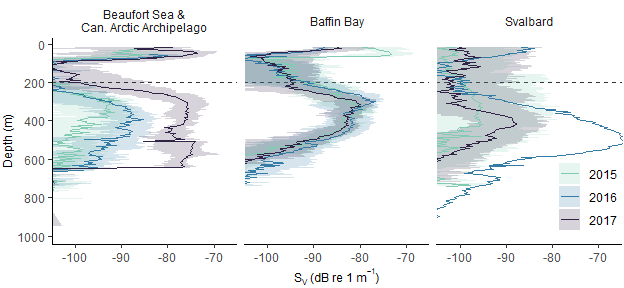
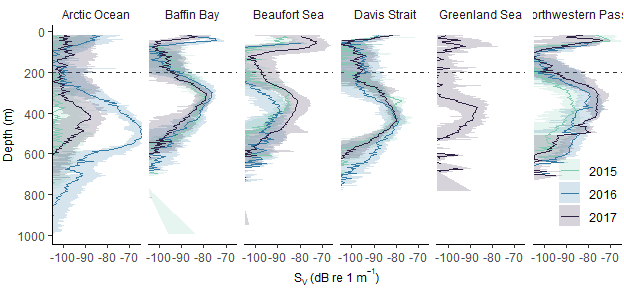
Implemented IHO regions

diff --git a/PanArctic_DSL_acoustics.md b/PanArctic_DSL_acoustics.md
@@ -1,7 +1,7 @@
 PanArctic DSL - Acoustic gridding
 ================
 [Pierre Priou](mailto:pierre.priou@mi.mun.ca)
-2022/04/25 at 18:58
+2022/04/26 at 18:02
 
 # Package loading
 
@@ -10,6 +10,7 @@ PanArctic DSL - Acoustic gridding
 library(tidyverse)    # Tidy code
 library(cowplot)      # Plots on a grid
 library(raster)       # Data gridding
+library(sf)           # Spatial data
 library(rgdal)        # Read shapefiles
 library(cmocean)      # Oceanographic color palettes
 library(RColorBrewer) # Diverging color palette
@@ -26,6 +27,34 @@ theme_update(axis.text = element_text(size = 9),
              plot.margin = unit(c(0.02, 0.02, 0.02, 0.02), "in"),
              plot.title = element_text(size = 9, face = "bold"))
 options(dplyr.summarise.inform = F) # Suppress summarise() warning
+```
+
+I use the area definitions from IHO Sea Areas (International
+Hydrographic Organization) to combine data.
+
+``` r
+# Projections
+arctic_latlon <- raster(extent(-155, 35, 66, 85), # Base projection for acoustic and CTD data
+                        crs = "EPSG:4326", 
+                        res = c(2, 1)) # cells of 2 degree longitude per 1 degree latitude
+arctic_laea <- raster(extent(-2700, 2700, -2700, 2700), crs = "EPSG:6931") # Seaice projection
+projection(arctic_laea) <- gsub("units=m", "units=km", projection(arctic_laea)) # Convert proj unit from m to km
+cell_res <- 100 # Cell resolution in km
+res(arctic_laea) <- c(cell_res, cell_res) # Define the 100 km cell resolution
+
+# IHO areas
+# sf::sf_use_s2(T) # Turn off s2 processing
+IHO_sf_latlon <- read_sf("data/arctic_regions/World_Seas_IHO_v3.shp") %>%
+  filter(ID %in% c("5", "13", "14", "14A", "15", "17")) %>% # Filter for relevant regions
+  st_transform(crs = crs(arctic_latlon)) %>%
+  st_make_valid() %>% # Correct invalid polygons
+  filter(st_is_valid(.) == TRUE)
+IHO_sf_laea <- read_sf("data/arctic_regions/World_Seas_IHO_v3.shp") %>%
+  filter(ID %in% c("5", "13", "14", "14A", "15", "17")) %>% # Filter for relevant regions
+  st_transform(crs = crs(arctic_latlon)) %>%
+  st_transform(crs = crs(arctic_laea)) %>%
+  st_make_valid() %>% # Correct invalid polygons
+  filter(st_is_valid(.) == TRUE) 
 ```
 
 # Integrated s<sub>A</sub> and centre of mass
@@ -50,10 +79,6 @@ load("data/acoustics/MVBS_2015_2017.RData") # Acoustic data
 ## 2D Integrated backscatter - EPSG:4326 - WGS84 projection
 
 ``` r
-arctic_latlon <- raster(extent(-155, 35, 66, 85), # Base projection for acoustic and CTD data
-                        crs = "EPSG:4326", 
-                        res = c(2, 1)) # cells of 2 degree longitude per 1 degree latitude
-
 SA_grid_latlon <- data.frame() # Empty dataframe that will be filled with gridded CTD data
 
 for (i in seq(2015, 2017, 1)) { # Data gridding
@@ -95,7 +120,16 @@ SA_grid_latlon <- SA_grid_latlon %>% # Calculate normalized backscatter anomalie
                                            NASC_anomaly > 0.5 & NASC_anomaly <= 1 ~ "]0.5;1]",
                                            NASC_anomaly > 1 ~ ">1"),
                                            levels = c("<-1", "[-1;-0.5[", "[-0.5;0.5]", "]0.5;1]", ">1"))) %>%
-  ungroup()
+  ungroup() %>%
+  st_as_sf(coords = c("lon", "lat"), crs = st_crs(arctic_latlon), remove = F) %>%
+  st_join(., IHO_sf_latlon, join = st_within) %>%
+  st_drop_geometry() %>%
+  mutate(NAME = if_else(is.na(NAME) == T & lon > -100 & lat < 70, "Davis Strait",
+                if_else(is.na(NAME) == T & lon > -100 & lat > 70, "Baffin Bay",
+                if_else(is.na(NAME) == T & lon < -100, "The Northwestern Passages", NAME)))) %>%
+  rename(IHO_area = NAME, area = area.x) %>%
+  dplyr::select(year, lat, lon, IHO_area, area, NASC_int, CM, mean_NASC_area_year, sd_NASC_area_year, 
+                NASC_anomaly, NASC_anomaly_d)
 ```
 
 Plot mesopelagic normalized s<sub>A</sub> anomalies and centre of mass
@@ -149,11 +183,6 @@ More info on this projection can be found on the [NSIDC
 website](https://nsidc.org/data/ease/).
 
 ``` r
-cell_res <- 100 # Cell resolution in km
-arctic_laea <- raster(extent(-2700, 2700, -2700, 2700), crs = "EPSG:6931") # Seaice projection
-projection(arctic_laea) <- gsub("units=m", "units=km", projection(arctic_laea)) # Convert proj unit from m to km
-res(arctic_laea) <- c(cell_res, cell_res) # Define the 100 km cell resolution
-
 SA_grid_laea <- data.frame() # Empty dataframe that will be filled with gridded CTD data
 
 for (i in seq(2015, 2017, 1)) { # Data gridding
@@ -196,7 +225,15 @@ SA_grid_laea <- SA_grid_laea %>% # Calculate normalized backscatter anomalies
                                            NASC_anomaly > 0.5 & NASC_anomaly <= 1 ~ "]0.5;1]",
                                            NASC_anomaly > 1 ~ ">1"),
                                            levels = c("<-1", "[-1;-0.5[", "[-0.5;0.5]", "]0.5;1]", ">1"))) %>%
-  ungroup()
+  ungroup() %>%
+  st_as_sf(coords = c("xc", "yc"), crs = st_crs(arctic_laea), remove = F) %>%
+  st_join(., IHO_sf_laea, join = st_within) %>%
+  st_drop_geometry() %>%
+  mutate(NAME = if_else(is.na(NAME) == T & yc < 0, "Baffin Bay",
+                if_else(is.na(NAME) == T & yc > 0 & lat > 70, "The Northwestern Passages", NAME))) %>%
+  rename(IHO_area = NAME, area = area.x) %>%
+  dplyr::select(year, xc, yc, lon, lat, IHO_area, area, NASC_int, CM, mean_NASC_area_year, sd_NASC_area_year,
+                NASC_anomaly, NASC_anomaly_d, cell_res)
 ```
 
 Plot mesopelagic normalized s<sub>A</sub> anomalies and centre of mass
@@ -245,11 +282,6 @@ More info on this projection can be found on the [NSIDC
 website](https://nsidc.org/data/ease/).
 
 ``` r
-cell_res <- 100 # Cell resolution in km
-arctic_sv_laea <- raster(extent(-2700, 2700, -2700, 2700), crs = "EPSG:6931") # Seaice projection
-projection(arctic_sv_laea) <- gsub("units=m", "units=km", projection(arctic_sv_laea)) # Convert proj unit from m to km
-res(arctic_sv_laea) <- c(cell_res, cell_res) # Define the 100 km cell resolution
-
 Sv_grid_laea <- data.frame() # Empty dataframe that will be filled with gridded CTD data
 
 for (i in seq(2015, 2017, 1)) { # Loop through every year
@@ -262,8 +294,8 @@ for (i in seq(2015, 2017, 1)) { # Loop through every year
     Sv_tmp_0.05 <- SpatialPointsDataFrame(SpatialPoints(cbind(Sv_tmp$lon, Sv_tmp$lat), 
                                                         proj4string = CRS("EPSG:4326")),
                                           data.frame(sv_lin = Sv_tmp$sv_lin)) %>%
-      spTransform(., CRSobj = crs(arctic_sv_laea)) %>% # Change projection to EPSG:6931
-      rasterize(., arctic_sv_laea, fun = function(x, ...) {quantile(unique(na.omit(x)), 0.05)}, na.rm = F) %>% 
+      spTransform(., CRSobj = crs(arctic_laea)) %>% # Change projection to EPSG:6931
+      rasterize(., arctic_laea, fun = function(x, ...) {quantile(unique(na.omit(x)), 0.05)}, na.rm = F) %>% 
       dropLayer(1) %>% # Remove ID layer
       rasterToPoints() %>% # Convert raster to data frame
       as.data.frame() %>%
@@ -273,8 +305,8 @@ for (i in seq(2015, 2017, 1)) { # Loop through every year
     Sv_tmp_0.25 <- SpatialPointsDataFrame(SpatialPoints(cbind(Sv_tmp$lon, Sv_tmp$lat), 
                                                         proj4string = CRS("EPSG:4326")),
                                           data.frame(sv_lin = Sv_tmp$sv_lin)) %>%
-      spTransform(., CRSobj = crs(arctic_sv_laea)) %>% # Change projection to EPSG:6931
-      rasterize(., arctic_sv_laea, fun = function(x, ...) {quantile(unique(na.omit(x)), 0.25)}, na.rm = F) %>% 
+      spTransform(., CRSobj = crs(arctic_laea)) %>% # Change projection to EPSG:6931
+      rasterize(., arctic_laea, fun = function(x, ...) {quantile(unique(na.omit(x)), 0.25)}, na.rm = F) %>% 
       dropLayer(1) %>% # Remove ID layer
       rasterToPoints() %>% # Convert raster to data frame
       as.data.frame() %>%
@@ -286,8 +318,8 @@ for (i in seq(2015, 2017, 1)) { # Loop through every year
                                          data.frame(lat = Sv_tmp$lat,
                                                     lon = Sv_tmp$lon,
                                                     sv_lin = Sv_tmp$sv_lin)) %>%
-      spTransform(., CRSobj = crs(arctic_sv_laea)) %>% # Change projection to EPSG:6931
-      rasterize(., arctic_sv_laea, fun = function(x, ...) {quantile(unique(na.omit(x)), 0.5)}, na.rm = F) %>% 
+      spTransform(., CRSobj = crs(arctic_laea)) %>% # Change projection to EPSG:6931
+      rasterize(., arctic_laea, fun = function(x, ...) {quantile(unique(na.omit(x)), 0.5)}, na.rm = F) %>% 
       dropLayer(1) %>% # Remove ID layer
       rasterToPoints() %>% # Convert raster to data frame
       as.data.frame() %>%
@@ -297,8 +329,8 @@ for (i in seq(2015, 2017, 1)) { # Loop through every year
     Sv_tmp_0.75 <- SpatialPointsDataFrame(SpatialPoints(cbind(Sv_tmp$lon, Sv_tmp$lat), 
                                                         proj4string = CRS("EPSG:4326")),
                                           data.frame(sv_lin = Sv_tmp$sv_lin)) %>%
-      spTransform(., CRSobj = crs(arctic_sv_laea)) %>% # Change projection to EPSG:6931
-      rasterize(., arctic_sv_laea, fun = function(x, ...) {quantile(unique(na.omit(x)), 0.75)}, na.rm = F) %>% 
+      spTransform(., CRSobj = crs(arctic_laea)) %>% # Change projection to EPSG:6931
+      rasterize(., arctic_laea, fun = function(x, ...) {quantile(unique(na.omit(x)), 0.75)}, na.rm = F) %>% 
       dropLayer(1) %>% # Remove ID layer
       rasterToPoints() %>% # Convert raster to data frame
       as.data.frame() %>%
@@ -308,8 +340,8 @@ for (i in seq(2015, 2017, 1)) { # Loop through every year
     Sv_tmp_0.95 <- SpatialPointsDataFrame(SpatialPoints(cbind(Sv_tmp$lon, Sv_tmp$lat), 
                                                         proj4string = CRS("EPSG:4326")),
                                           data.frame(sv_lin = Sv_tmp$sv_lin)) %>%
-      spTransform(., CRSobj = crs(arctic_sv_laea)) %>% # Change projection to EPSG:6931
-      rasterize(., arctic_sv_laea, fun = function(x, ...) {quantile(unique(na.omit(x)), 0.95)}, na.rm = F) %>% 
+      spTransform(., CRSobj = crs(arctic_laea)) %>% # Change projection to EPSG:6931
+      rasterize(., arctic_laea, fun = function(x, ...) {quantile(unique(na.omit(x)), 0.95)}, na.rm = F) %>% 
       dropLayer(1) %>% # Remove ID layer
       rasterToPoints() %>% # Convert raster to data frame
       as.data.frame() %>%
@@ -323,6 +355,11 @@ for (i in seq(2015, 2017, 1)) { # Loop through every year
     Sv_grid_laea <- bind_rows(Sv_grid_laea, Sv_grid_tmp) # Combine data
   }
 }
+rm(Sv_tmp, Sv_tmp_0.05, Sv_tmp_0.25, Sv_tmp_0.50, Sv_tmp_0.75, Sv_tmp_0.95, Sv_grid_tmp) # Remove temporary data
+
+coord_equivalences <- SA_grid_laea %>% # Calculate coord equivalences between 4326 and 6931
+  group_by(xc, yc, area, IHO_area) %>%
+  summarise()
 
 Sv_grid_laea <- Sv_grid_laea %>% # Tidy data
     mutate(Sv_q0.05 = 10 * log10(sv_lin_q0.05), # Transform into backsattering strengh (log)
@@ -335,16 +372,12 @@ Sv_grid_laea <- Sv_grid_laea %>% # Tidy data
                                    lon >= -25 & lon <= 145 & lat > 77 & lat <= 90 ~ "SV"),
                          levels = c("BF_CAA", "BB", "SV")),
            cell_res = cell_res) %>%
-  # unite(grid_ID, xc, yc, year, sep = "_", remove = F) %>% # Create unique ID for each grid cell
-  dplyr::select(year, area, xc, yc, lon, lat, depth, cell_res,
+  ungroup() %>%
+  left_join(., coord_equivalences, by = c("xc", "yc", "area")) %>%
+  dplyr::select(year, xc, yc, lon, lat, IHO_area, area, depth, cell_res,
                 sv_lin_q0.05, sv_lin_q0.25, sv_lin_q0.50, sv_lin_q0.75, sv_lin_q0.95,
                 Sv_q0.05, Sv_q0.25, Sv_q0.50, Sv_q0.75, Sv_q0.95)
-  
-rm(Sv_tmp, Sv_tmp_0.05, Sv_tmp_0.25, Sv_tmp_0.5, Sv_tmp_0.75, Sv_tmp_0.95, Sv_grid_tmp, cell_res) # Remove temporary data
 ```
-
-    ## Warning in rm(Sv_tmp, Sv_tmp_0.05, Sv_tmp_0.25, Sv_tmp_0.5, Sv_tmp_0.75, :
-    ## object 'Sv_tmp_0.5' not found
 
 Plot S<sub>V</sub> profiles for each area and year after data gridding.
 
@@ -352,7 +385,7 @@ Plot S<sub>V</sub> profiles for each area and year after data gridding.
 col_pal <- c("#80CBB1", "#347BA5", "#302346") # Custom color palette
 
 Sv_grid_laea %>% # Plot median profiles
-  group_by(depth, area, year) %>% # Calculate mean and median Sv profiles per area per year
+  group_by(depth, IHO_area, year) %>% # Calculate mean and median Sv profiles per area per year
   summarise(sv_lin_q0.05_areayear = median(sv_lin_q0.05),
             sv_lin_q0.25_areayear = median(sv_lin_q0.25),
             sv_lin_q0.50_areayear = median(sv_lin_q0.50),
@@ -381,11 +414,11 @@ Sv_grid_laea %>% # Plot median profiles
          Sv_q0.95_median = case_when(Sv_q0.95_median == -999 ~ NaN,
                                      Sv_q0.95_median > -999 & Sv_q0.95_median <= -105 ~ -105,
                                      Sv_q0.95_median > -105 ~ Sv_q0.95_median)) %>%
-  arrange(year, area, depth) %>%
-  mutate(area=factor(if_else(area=="BF_CAA", "Beaufort Sea &\nCan. Arctic Archipelago",
-                       if_else(area=="BB", "Baffin Bay",
-                       if_else(area=="SV", "Svalbard","Other"))),
-                       levels=c("Beaufort Sea &\nCan. Arctic Archipelago","Baffin Bay","Svalbard"))) %>%
+  arrange(year, IHO_area, depth) %>%
+  # mutate(area = factor(if_else(area == "BF_CAA", "Beaufort Sea &\nCan. Arctic Archipelago",
+  #                      if_else(area == "BB", "Baffin Bay",
+  #                      if_else(area == "SV", "Svalbard", "Other"))),
+  #                      levels = c("Beaufort Sea &\nCan. Arctic Archipelago", "Baffin Bay", "Svalbard"))) %>%
   # Plot
   ggplot() +
   geom_vline(xintercept = 200, lty = 2, col = "grey20") +
@@ -398,7 +431,7 @@ Sv_grid_laea %>% # Plot median profiles
   scale_color_manual(values = col_pal) +
   scale_fill_manual(values = col_pal) +
   coord_flip(ylim = c(-105, -65)) +
-  facet_grid(~ area) +
+  facet_grid(~ IHO_area) +
   theme(legend.title = element_blank(),
         legend.position = c(0.94, 0.275),
         legend.background = element_blank(),
